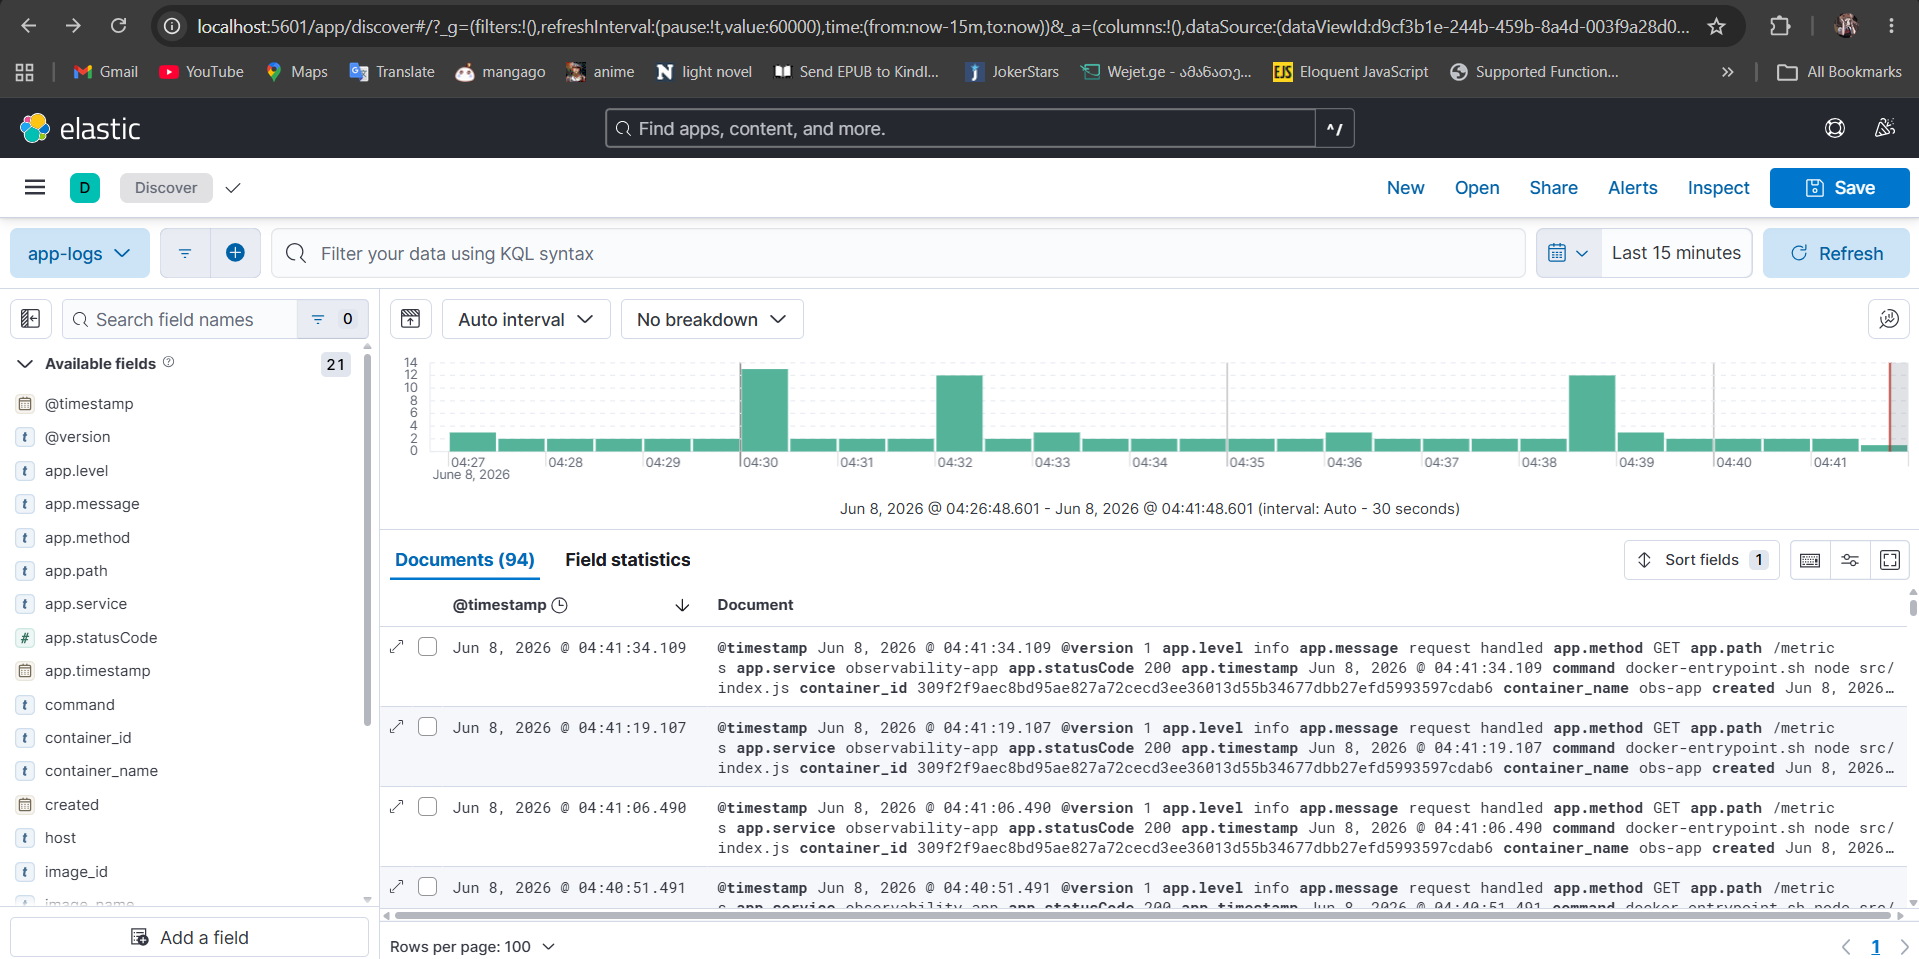
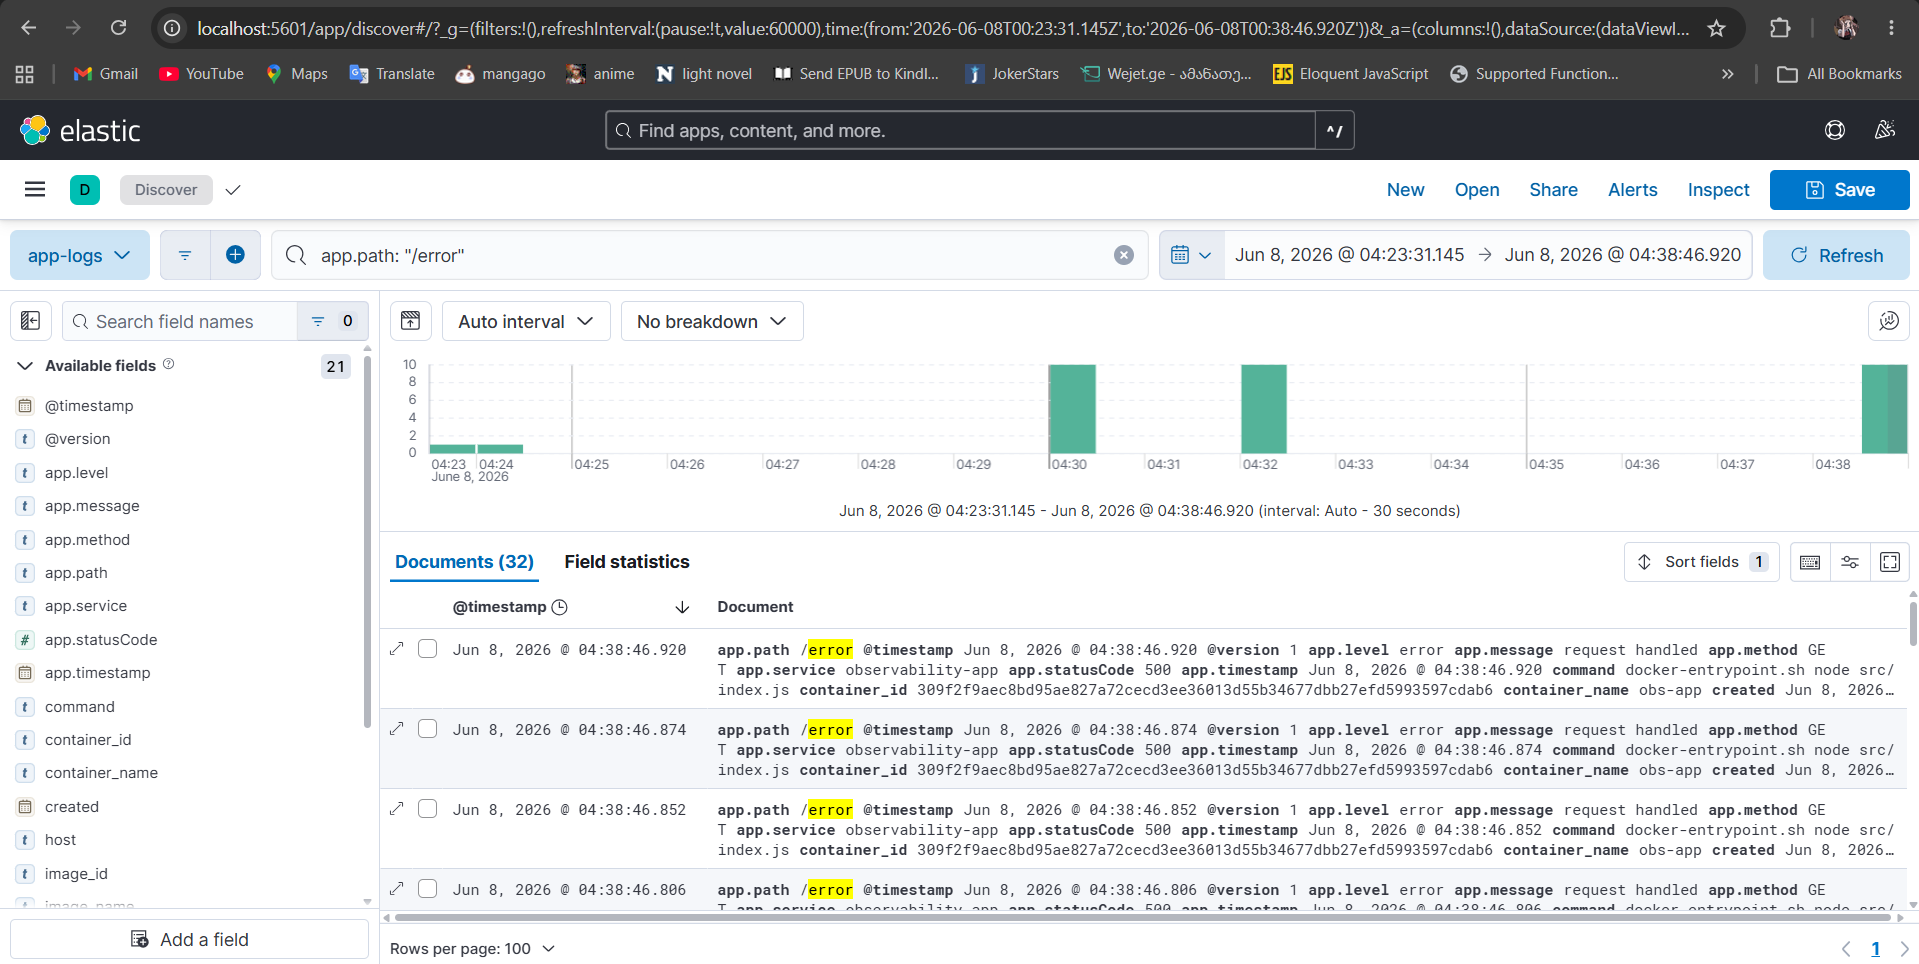
docs: update readme

diff --git a/README.md b/README.md
@@ -216,6 +216,12 @@ visible in Grafana).
 
 **Grafana / Prometheus alert firing:**
 
+![Grafana rule](docs/screenshots/grafana-rule.png)
+
+![Grafana rule firing](docs/screenshots/grafana-rule-firing.png)
+
+![Grafana inactive](docs/screenshots/grafana-inactive.png)
+
 ![Grafana alerting](docs/screenshots/grafana-alerting.png)
 
 ---
